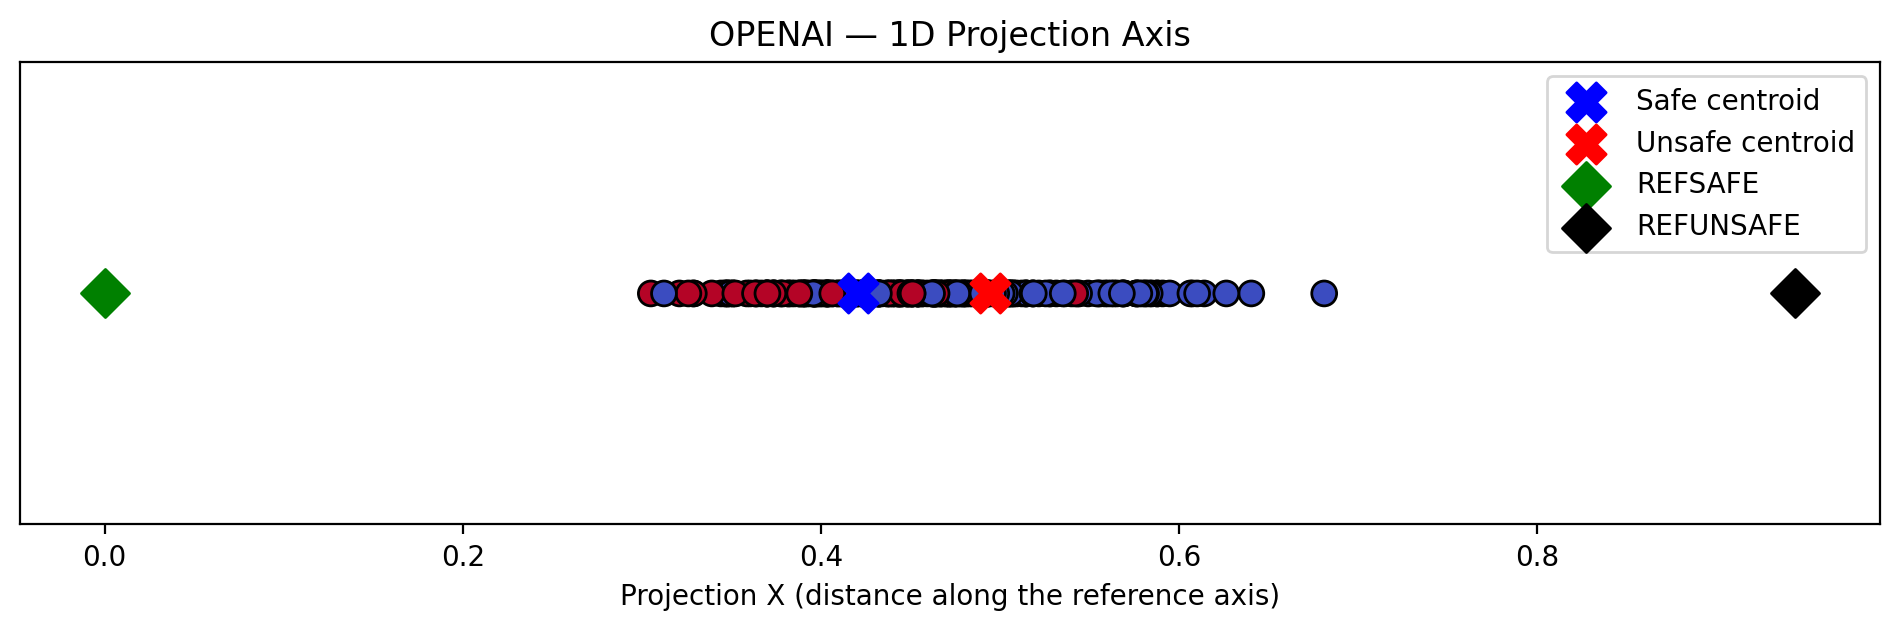
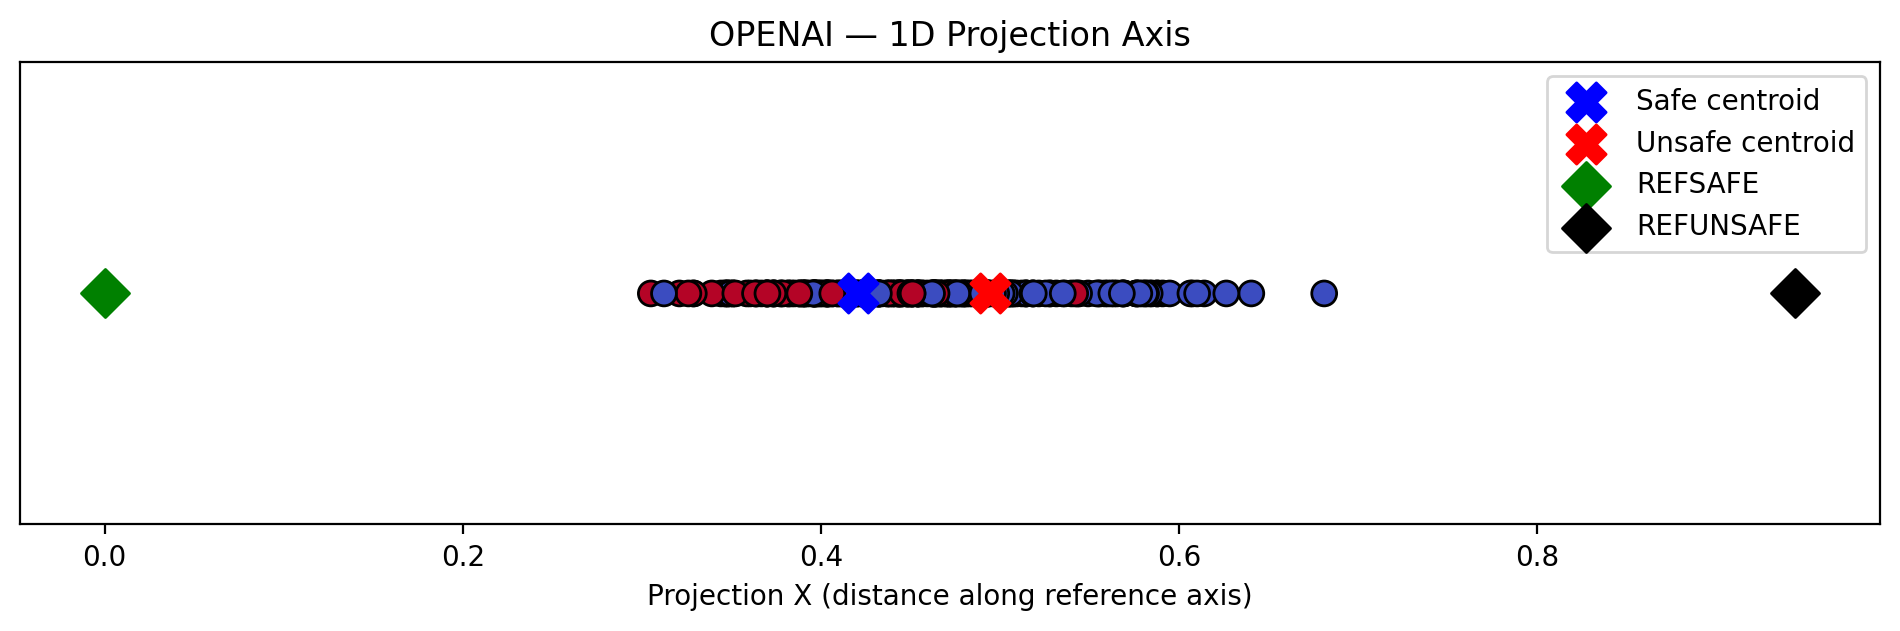
Add gradient booster as reference point

Changed region(s): [[0.3105, 0.9033, 0.6832, 0.9635]]

diff --git a/ethical_analysis/embedding_eval.py b/ethical_analysis/embedding_eval.py
@@ -5,6 +5,7 @@ import matplotlib.pyplot as plt
 from sklearn.linear_model import LogisticRegression
 from sklearn.metrics import roc_auc_score, accuracy_score, classification_report
 from sklearn.model_selection import train_test_split
+from sklearn.ensemble import GradientBoostingClassifier
 
 
 # ============================================================
@@ -21,7 +22,6 @@ def load_embedded_jsonl(path):
 
 # ============================================================
 # 1D PROJECTION (ONLY X AXIS)
-# The y-axis is discarded as requested
 # ============================================================
 
 def project_embeddings_1d(embeddings):
@@ -44,7 +44,7 @@ def project_embeddings_1d(embeddings):
         d1 = np.linalg.norm(emb - ref_safe)
         d2 = np.linalg.norm(emb - ref_unsafe)
 
-        # 1D projection onto the reference axis
+        # 1D projection formula
         x = (d1**2 - d2**2 + d12**2) / (2 * d12)
         xs.append(x)
 
@@ -78,11 +78,11 @@ def run_pipeline(model_name, jsonl_path):
     # -------------------------
     # REMOVE references from evaluation
     # -------------------------
-    xs_eval = xs[2:]       # drop refsafe (0) + refunsafe (1)
+    xs_eval = xs[2:]       
     labels_eval = labels[2:]
 
     # -------------------------
-    # Train/test split
+    # Train/test split for 1D projection
     # -------------------------
     X_train, X_test, y_train, y_test = train_test_split(
         xs_eval.reshape(-1, 1),
@@ -93,15 +93,12 @@ def run_pipeline(model_name, jsonl_path):
     )
 
     # -------------------------
-    # Logistic Regression on 1D axis
+    # Logistic Regression (1D)
     # -------------------------
     clf = LogisticRegression().fit(X_train, y_train)
     y_pred = clf.predict(X_test)
     y_proba = clf.predict_proba(X_test)[:, 1]
 
-    # -------------------------
-    # Metrics
-    # -------------------------
     acc = accuracy_score(y_test, y_pred)
     auc = roc_auc_score(y_test, y_proba)
 
@@ -109,6 +106,36 @@ def run_pipeline(model_name, jsonl_path):
     print(f"Accuracy: {acc:.3f}")
     print(f"AUC:      {auc:.3f}\n")
     print(classification_report(y_test, y_pred, target_names=["unsafe", "safe"]))
+
+    # ============================================================
+    # GRADIENT BOOSTING ON FULL EMBEDDINGS
+    # ============================================================
+
+    X_full = embeddings[2:]  # drop reference embeddings
+    y_full = labels[2:]
+
+    X_train_full, X_test_full, y_train_full, y_test_full = train_test_split(
+        X_full,
+        y_full,
+        test_size=0.25,
+        random_state=42,
+        stratify=y_full
+    )
+
+    gb = GradientBoostingClassifier()
+    gb.fit(X_train_full, y_train_full)
+
+    y_pred_full = gb.predict(X_test_full)
+    y_proba_full = gb.predict_proba(X_test_full)[:, 1]
+
+    acc_full = accuracy_score(y_test_full, y_pred_full)
+    auc_full = roc_auc_score(y_test_full, y_proba_full)
+
+    print(f"\n---- Gradient Boosting (FULL embedding) ----")
+    print(f"Accuracy: {acc_full:.3f}")
+    print(f"AUC:      {auc_full:.3f}\n")
+    print(classification_report(y_test_full, y_pred_full,
+                                target_names=["unsafe", "safe"]))
 
     # -------------------------
     # Centroid classifier (1D)
@@ -121,10 +148,11 @@ def run_pipeline(model_name, jsonl_path):
     centroid_pred = (d_safe < d_unsafe).astype(int)
 
     print("\n---- Centroid Classifier (1D) ----")
-    print(classification_report(labels_eval, centroid_pred, target_names=["unsafe", "safe"]))
+    print(classification_report(labels_eval, centroid_pred,
+                                target_names=["unsafe", "safe"]))
 
     # -------------------------
-    # Visualization (1D axis plot)
+    # Visualization
     # -------------------------
     outdir = f"projection_eval/{model_name}"
     os.makedirs(outdir, exist_ok=True)
@@ -133,17 +161,17 @@ def run_pipeline(model_name, jsonl_path):
     plt.scatter(xs_eval, np.zeros_like(xs_eval), c=labels_eval, cmap="coolwarm",
                 s=80, edgecolors="k")
 
-    # Plot SAFE / UNSAFE centroids
-    plt.scatter([safe_centroid], [0], c="blue", marker="X", s=200, label="Safe centroid")
-    plt.scatter([unsafe_centroid], [0], c="red", marker="X", s=200, label="Unsafe centroid")
+    plt.scatter([safe_centroid], [0], c="blue", marker="X", s=200,
+                label="Safe centroid")
+    plt.scatter([unsafe_centroid], [0], c="red", marker="X", s=200,
+                label="Unsafe centroid")
 
-    # Plot references
     plt.scatter([xs[0]], [0], c="green", s=150, marker="D", label="REFSAFE")
     plt.scatter([xs[1]], [0], c="black", s=150, marker="D", label="REFUNSAFE")
 
     plt.title(f"{model_name.upper()} — 1D Projection Axis")
     plt.yticks([])
-    plt.xlabel("Projection X (distance along the reference axis)")
+    plt.xlabel("Projection X (distance along reference axis)")
     plt.legend()
 
     plot_path = f"{outdir}/projection_1d_plot.png"
@@ -154,7 +182,9 @@ def run_pipeline(model_name, jsonl_path):
 
     return {
         "accuracy": acc,
-        "auc": auc
+        "auc": auc,
+        "gb_accuracy": acc_full,
+        "gb_auc": auc_full
     }
 
 
@@ -176,5 +206,7 @@ if __name__ == "__main__":
 
     print("\n=========== SUMMARY ===========")
     for m, res in summary.items():
-        print(f"{m.upper()}: Acc={res['accuracy']:.3f}, AUC={res['auc']:.3f}")
+        print(f"{m.upper()}: "
+              f"Acc={res['accuracy']:.3f}, AUC={res['auc']:.3f}, "
+              f"GB_Acc={res['gb_accuracy']:.3f}, GB_AUC={res['gb_auc']:.3f}")
     print("================================\n")
